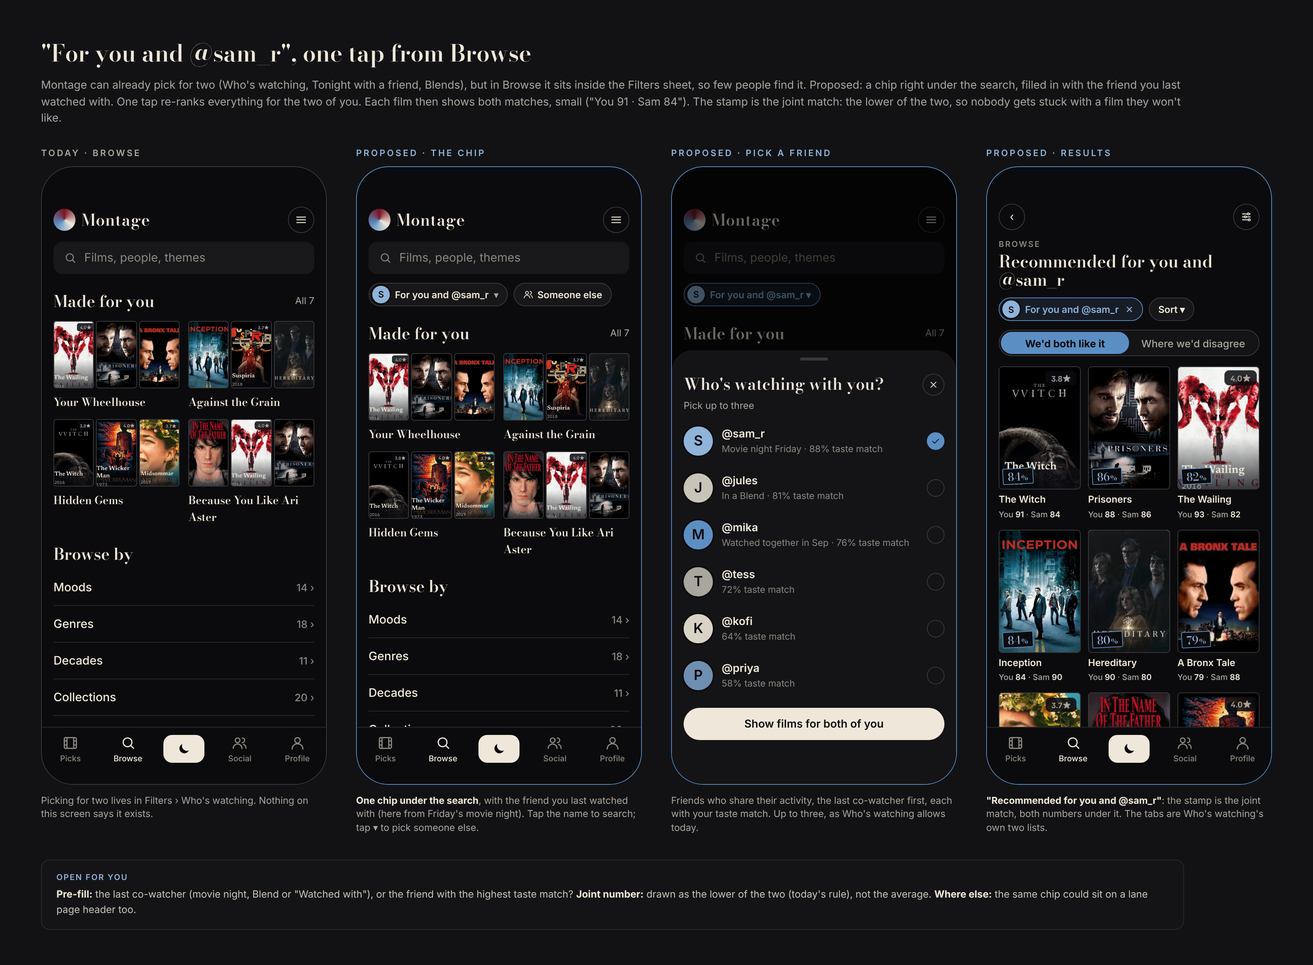
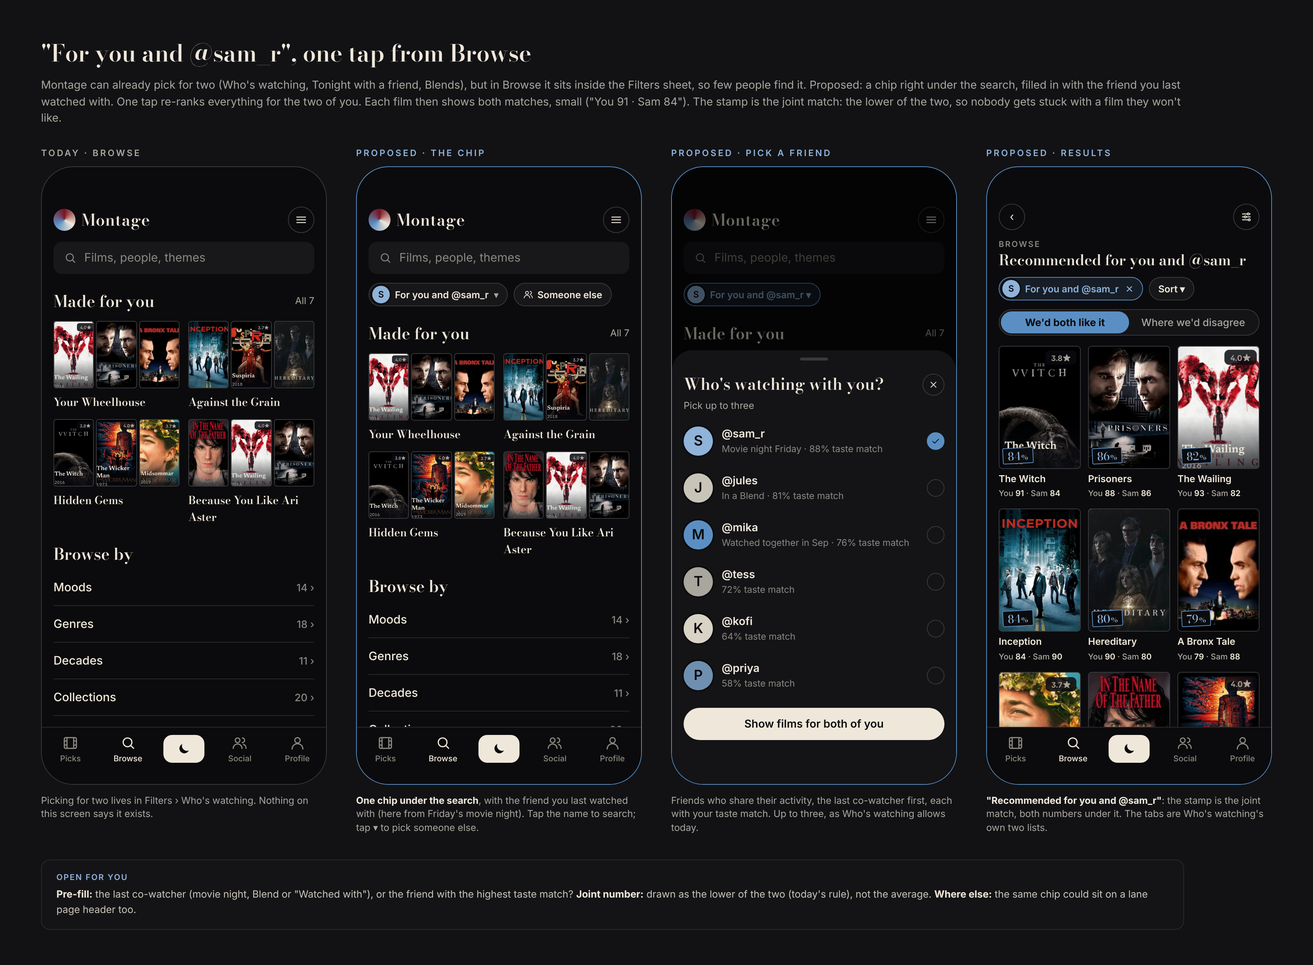
Mocks: Beli-inspired ideas 1–8
Claude-Session: https://claude.ai/code/session_013WRDCFXH8nihP92apJAVW7

Changed region(s): [[0.75, 0.2491, 0.9688, 0.7783]]

diff --git a/mockups/journeys/beli-8-invite-reward.html b/mockups/journeys/beli-8-invite-reward.html
@@ -1,0 +1,85 @@
+<!doctype html><html><head><meta charset="utf-8"><title>Invites as a bonus</title>
+<link href="https://fonts.googleapis.com/css2?family=Bodoni+Moda:opsz,wght@6..96,500;6..96,600&family=Inter:wght@400;500;600;700&family=Newsreader:opsz,wght@6..72,400;6..72,600&display=block" rel="stylesheet">
+<link rel="stylesheet" href="../proportions-common.css"><link rel="stylesheet" href="beli.css">
+<style>
+.sheet{position:absolute;left:0;right:0;top:54px;bottom:0;background:#0B0B0D;border-top:1px solid #2A2A2E;border-radius:18px 18px 0 0;padding:12px 16px}
+.og{margin-top:14px;border-radius:8px;border:1px solid #3A3A3E;overflow:hidden;height:172px;position:relative;background:#0b0b0d;display:flex;gap:12px;padding:16px 14px 14px 22px}
+.og:before{content:"";position:absolute;left:0;top:0;bottom:0;width:5px;background:#7A1220}
+.og .sp{width:88px;height:132px;box-shadow:5px 5px 0 #7A1220;outline:1px solid #EFE8DA}
+.og .k{font:600 9px Inter;letter-spacing:1.6px;color:#8FB3D9;text-transform:uppercase}
+.og .n{font:600 22px/1.05 'Bodoni Moda';margin-top:6px}
+.og .f{font:600 8px Inter;letter-spacing:.8px;white-space:nowrap;text-transform:uppercase;margin-top:auto;display:flex;justify-content:space-between;border-top:1px solid #2A2A2E;padding-top:7px}
+.capsl{font:600 11px Inter;letter-spacing:1.3px;text-transform:uppercase;color:#A9A69E}.capsl.b{color:#8FB3D9}
+.dest{display:flex;justify-content:space-between;margin-top:12px}
+.dest span{width:60px;text-align:center;font-size:11px;color:#A9A69E}
+.dest .c{width:50px;height:50px;border-radius:50%;margin:0 auto 5px;border:1px solid #3A3A3E;background:rgba(255,255,255,.04);display:flex;align-items:center;justify-content:center;color:#EFE8DA;font:700 14px Inter}
+.prog{margin-top:16px;border:1px solid #2A2A2E;border-radius:12px;background:#141417;padding:14px}
+.slots{display:flex;gap:8px;margin-top:12px}
+.slot{flex:1;height:62px;border-radius:8px;display:flex;flex-direction:column;align-items:center;justify-content:center;gap:4px;font-size:11px;color:#8A877F}
+.slot.on{background:rgba(91,143,196,.14);border:1px solid #5B8FC4;color:#8FB3D9}
+.slot.off{border:1.5px dashed #3A3A3E}
+.slot.half{border:1.5px dashed #5B8FC4;color:#8FB3D9}
+.free{display:flex;gap:10px;align-items:flex-start;margin-top:14px;font-size:13px;line-height:1.45;color:#C9C4B8}
+.free .i{color:#8FB3D9;margin-top:1px}
+.cg{display:grid;grid-template-columns:repeat(5,1fr);gap:7px;margin-top:12px}
+.cg .sp,.cg .nw{aspect-ratio:2/3;border-radius:5px}
+.cg .nw{border:1.5px dashed #5B8FC4;display:flex;align-items:center;justify-content:center;color:#8FB3D9}
+.ios{position:absolute;left:8px;right:8px;bottom:8px;background:#1C1C1F;border-radius:22px;padding:14px 14px}
+.lk{display:flex;gap:12px;align-items:center;padding-bottom:14px;border-bottom:1px solid #2E2E32}
+.lk .ib{width:52px;height:52px;border-radius:10px;background:#0B0B0D;display:flex;align-items:center;justify-content:center;flex:none;border:1px solid #3A3A3E}
+.apps{display:flex;justify-content:space-between;padding:16px 4px;border-bottom:1px solid #2E2E32}
+.apps span{width:62px;text-align:center;font-size:11px;color:#C9C4B8}
+.apps .c{width:56px;height:56px;border-radius:14px;margin:0 auto 6px;background:#2E2E32;display:flex;align-items:center;justify-content:center;color:#EFE8DA;font:700 14px Inter}
+.ios .li{display:flex;justify-content:space-between;align-items:center;height:48px;background:#26262A;padding:0 14px;font-size:15px}
+.ios .li:first-of-type{border-radius:12px 12px 0 0}.ios .li+.li{border-top:1px solid #333337}.ios .li.last{border-radius:0 0 12px 12px}
+.msg{margin-top:12px;background:#26262A;border-radius:12px;padding:10px 12px;font-size:14px;line-height:1.4;color:#EFE8DA}
+.phone{height:760px}
+.web{position:absolute;inset:0;padding:50px 16px 0}
+.url{height:34px;border-radius:10px;background:#18181B;display:flex;align-items:center;justify-content:center;font:500 13px Inter;color:#8A877F;gap:6px}
+</style></head><body>
+<h1>Invites earn a bonus. They never unlock the basics</h1>
+<p class="lede">Beli makes people invite friends to get in or to use features, and reviewers resent it. Montage does the opposite. <b>Everything works without inviting anyone, and sign-up is never gated.</b> Inviting is only a thank-you on top: when 3 friends join from your links, your Canon (your favourites shelf) grows from 10 films to 15. The invite sheet shows progress ("1 of 3"), every way you share counts (profile, movie night and match links), and the friend lands on an open, free sign-up. This builds on referral.html (reward A).</p>
+<div class="frames">
+<div><div class="sl">Today · Invite a friend</div><div class="phone" id="a"></div><p class="cap">As built (InviteSheet): a link preview and share targets. Nothing shows that anyone joined, or gives a reason to send a second invite.</p></div>
+<div><div class="sl new">Proposed · a bonus, 1 of 3</div><div class="phone new" id="b"></div><p class="cap"><b>A progress block</b> with three slots: joined, signing up, open. The line under it says plainly that nothing is locked and it never expires.</p></div>
+<div><div class="sl new">Proposed · the share sheet</div><div class="phone new" id="c"></div><p class="cap">The system share sheet with the message filled in. The link carries your invite code, so a join counts whichever app it goes through.</p></div>
+<div><div class="sl new">Proposed · what the friend sees</div><div class="phone new" id="d"></div><p class="cap"><b>An open door, not a gate.</b> Anyone can join with or without the link; the link only credits you and shows your match once they've rated.</p></div>
+<div><div class="sl new">Proposed · the bonus, unlocked</div><div class="phone new" id="e"></div><p class="cap">Three friends joined: five more Canon slots, for good. Someone who never invites keeps the full 10-film Canon and every feature.</p></div>
+</div>
+<div class="open"><h3>Open for you</h3><b>When a friend counts:</b> drawn at 15 rated films (so throwaway sign-ups don't count). <b>Taste weight:</b> the extra 5 Canon films should share the Canon's weight, not add to it, so the bonus doesn't change your picks. <b>iPhone installs:</b> crediting an App Store install needs a "Who invited you?" step in onboarding (optional, skippable).</div>
+<script src="beli.js"></script>
+<script>
+const shHead=`<div class="row" style="align-items:flex-start;margin-top:14px"><div class="fan" style="width:40px;height:40px;flex:none"></div><div style="flex:1"><div class="t18">Invite a friend to Montage</div><div class="m">They get their archetype and your match</div></div><span class="ic2" style="width:30px;height:30px"><i data-g="x" data-s="14"></i></span></div>`;
+const og=`<div class="og">${sp('wickerman')}<div style="display:flex;flex-direction:column;flex:1"><div class="k">@you's archetype</div><div class="n">Midnight Cultist</div><div class="sm" style="margin-top:6px">Folk horror, slow dread, the occult</div><div class="f"><span style="color:#8FB3D9">montagefilm.app</span><span>Your match →</span></div></div></div>`;
+const dest=`<div class="dest"><span><div class="c"><i data-g="msg" data-s="18"></i></div>Messages</span><span><div class="c">IG</div>Instagram</span><span><div class="c">WA</div>WhatsApp</span><span><div class="c"><i data-g="link" data-s="18"></i></div>Copy link</span><span><div class="c"><i data-g="more" data-s="18"></i></div>More</span></div>`;
+const under=`<div style="padding:0">${topbar}</div>`;
+document.getElementById('a').innerHTML=under+`<div class="sheet">${shHead}${og}<div class="capsl" style="margin-top:22px">Send an invite</div>${dest}
+<div class="kick" style="margin-top:26px">Joined from your links</div><div class="m" style="margin-top:8px">Not shown anywhere today. An "@kofi joined from your invite" row appears in Activity, and that's all.</div></div>`;
+document.getElementById('b').innerHTML=under+`<div class="sheet">${shHead}
+<div class="prog"><div class="row" style="justify-content:space-between"><span class="capsl b">Bonus · 1 of 3 joined</span><span class="sm">No deadline</span></div>
+<div style="font-size:14px;margin-top:6px;line-height:1.4">Three friends join, and your <b>Canon grows from 10 films to 15</b>.</div>
+<div class="slots"><div class="slot on">${av('@kofi',24)}@kofi</div><div class="slot half"><i data-g="clock" data-s="15"></i>@tess is rating</div><div class="slot off"><i data-g="plus" data-s="15"></i>Open</div></div>
+<div class="free"><i data-g="check" data-s="16"></i><span>Just a thank-you. Nothing in Montage is locked, and your friends can join with or without your link.</span></div></div>
+<div class="capsl" style="margin-top:18px">Send an invite</div>${dest}
+<div class="sm" style="margin-top:14px;line-height:1.45">Counts: your profile link, a movie night invite or a "What's our match?" link. A friend counts once they've rated 15 films.</div>
+<div class="sm" style="margin-top:10px;text-align:center">Your link preview is unchanged. <span style="color:#8FB3D9;font-weight:600">See it</span></div></div>`;
+document.getElementById('c').innerHTML=under+`<div class="sheet">${shHead}<div class="prog"><div class="row" style="justify-content:space-between"><span class="capsl b">Bonus · 1 of 3 joined</span><span class="sm">No deadline</span></div></div></div><div class="dim"></div>
+<div class="ios" style="z-index:6"><div class="lk"><div class="ib"><div class="fan" style="width:30px;height:30px"></div></div><div style="flex:1;min-width:0"><div style="font:600 15px Inter">What's our match on Montage?</div><div class="sm" style="margin-top:2px">montagefilm.app/u/you?i=k7f2</div></div><span class="ic2" style="width:30px;height:30px;background:#2E2E32;border:0"><i data-g="x" data-s="14"></i></span></div>
+<div class="msg">Rate a few films and see how our taste matches. It's free: montagefilm.app/u/you?i=k7f2</div>
+<div class="apps"><span><div class="c"><i data-g="msg" data-s="22"></i></div>Messages</span><span><div class="c">WA</div>WhatsApp</span><span><div class="c">IG</div>Instagram</span><span><div class="c"><i data-g="users" data-s="22"></i></div>Contacts</span></div>
+<div style="margin-top:14px"><div class="li">Copy link<i data-g="copy" data-s="18"></i></div><div class="li">Show QR code<i data-g="image" data-s="18"></i></div><div class="li last">Save to Files<i data-g="dl" data-s="18"></i></div></div></div>`;
+document.getElementById('d').innerHTML=`<div class="url"><i data-g="lock" data-s="12"></i>montagefilm.app</div>
+<div class="row" style="margin-top:22px;gap:10px">${av('@you',44)}<div><div class="m">@you sent you this</div><div class="t22">What's our match?</div></div></div>
+<div class="t28" style="margin-top:22px;font-size:32px">Rate a few films. See how your taste lines up.</div>
+<div style="display:flex;gap:8px;margin-top:20px">${['wailing','hereditary','witch','midsommar'].map(i=>sp(i,{style:'flex:1;aspect-ratio:2/3'})).join('')}</div>
+<div class="m" style="margin-top:10px;font-size:14px">@you's Canon starts with these. Yours could match.</div>
+<div class="pill" style="width:100%;margin-top:22px">Get started, free</div>
+<div class="pill sec" style="width:100%;margin-top:10px">Import from Letterboxd</div>
+<div class="free" style="margin-top:18px"><i data-g="check" data-s="16"></i><span><b style="color:#EFE8DA">No invite needed.</b> Montage is free and open to everyone; this link only lets @you know you joined.</span></div>`;
+document.getElementById('e').innerHTML=topbar+`<div class="row" style="margin-top:14px;gap:8px"><i data-g="canon" data-s="20" style="color:#8FB3D9"></i><span class="t22">Your Canon</span><span class="sm" style="margin-left:auto">10 of 15</span></div>
+<div style="margin-top:12px;border:1px solid #5B8FC4;background:rgba(91,143,196,.08);border-radius:10px;padding:12px"><div class="capsl b">Bonus unlocked, for good</div><div style="font-size:14px;margin-top:5px;line-height:1.4">@kofi, @tess and @priya joined from your links. Your Canon now holds 15 films.</div><div class="row" style="margin-top:8px">${faces(['@kofi','@tess','@priya'],22)}</div></div>
+<div class="cg">${['wailing','hereditary','witch','midsommar','wickerman','suspiria','prisoners','inception','itnotf','bronx'].map(i=>sp(i)).join('')}${'<div class="nw"><i data-g="plus" data-s="16"></i></div>'.repeat(5)}</div>
+<div class="pill" style="width:100%;margin-top:16px">Add to your Canon</div>
+<div class="sm" style="margin-top:12px;line-height:1.45;text-align:center">Your Canon counts the same in your taste at 15 as at 10.</div>
+`+tabs('Profile');
+</script><script src="growth-icons.js"></script></body></html>

diff --git a/mockups/journeys/beli-7-watched-with.html b/mockups/journeys/beli-7-watched-with.html
@@ -1,0 +1,74 @@
+<!doctype html><html><head><meta charset="utf-8"><title>Watched with</title>
+<link href="https://fonts.googleapis.com/css2?family=Bodoni+Moda:opsz,wght@6..96,500;6..96,600&family=Inter:wght@400;500;600;700&family=Newsreader:opsz,wght@6..72,400;6..72,600&display=block" rel="stylesheet">
+<link rel="stylesheet" href="../proportions-common.css"><link rel="stylesheet" href="beli.css">
+<style>
+.phone.dw{padding:0}
+.tkf{display:flex;gap:14px;align-items:center}
+.tkf .t{font:500 20px 'Bodoni Moda'}.tkf .m{margin-top:4px}.tkf .m b{color:#EFE8DA;font-weight:500;letter-spacing:1px}
+.vd{font:500 13px Inter;margin-top:6px}.vd .g{color:#A9A69E}.vd .ok{color:#8FB3D9}
+.dchips{display:flex;flex-wrap:wrap;gap:8px;margin-top:12px}
+.chip.pp{padding-left:4px;gap:7px}
+.chip.sel{border-color:#5B8FC4;background:rgba(91,143,196,.14);color:#EFE8DA}
+.acts{display:flex;justify-content:space-between;align-items:center;margin-top:20px}
+.act{display:flex;gap:12px;padding:14px 0;border-bottom:1px solid #2A2A2E;align-items:flex-start}
+.act .tx{flex:1;font-size:14px;line-height:1.4}
+.act .tx .sm{margin-top:2px}
+.lp{display:flex;gap:12px;align-items:center;padding:12px 0;border-bottom:1px solid #2A2A2E}
+.lp .sp{width:44px;height:66px}
+.lp .tx{flex:1;min-width:0;font-size:14px;line-height:1.35}
+.lp .tx em{font:500 15px 'Bodoni Moda';font-style:normal}
+.lp .tx .sm{margin-top:3px}
+.lp .st{font-size:12px;color:#EFE8DA;letter-spacing:.5px}
+.wl{display:flex;align-items:center;gap:10px;padding:12px 0;border-bottom:1px solid #2A2A2E}
+.wl .d{width:58px;font:600 13px Inter;flex:none}.wl .d span{display:block;font:400 11px Inter;color:#8A877F}
+.wl .tx{flex:1;font-size:13.5px;color:#A9A69E}.wl .tx b{color:#EFE8DA;font-weight:500;letter-spacing:.5px}
+.take p{font:400 15px/1.35 Newsreader;color:#D9D3C6;margin-top:3px}
+.together{display:flex;align-items:center;gap:10px;border:1px solid #2A2A2E;border-radius:12px;background:#121215;padding:12px;margin-top:14px;font-size:13.5px}
+</style></head><body>
+<h1>"Watched with": who was there</h1>
+<p class="lede">A film night is rarely solo, but a Montage log is. Proposed: one optional row on the "When did you watch it?" step, <b>Watched with</b>, where you tag friends who were there. Each tagged friend gets a one-tap "Add it to my films?" (nothing lands on their profile without them). Lately then shows the night as one post ("@jules and @sam_r watched it together"), and your log line on the film page keeps who was there. It also tells Montage who you watch with, which fills the "For you and @sam_r" chip.</p>
+<div class="frames">
+<div><div class="sl">Today · When step</div><div class="phone dw" id="a"></div><p class="cap">Stars, then when. Who you were with isn't asked anywhere.</p></div>
+<div><div class="sl new">Proposed · Watched with</div><div class="phone new dw" id="b"></div><p class="cap"><b>One row under When.</b> Friends you watch with most come first; Friday's movie night is offered as one tap. Optional: Done works with nobody tagged.</p></div>
+<div><div class="sl new">Proposed · the friend's side</div><div class="phone new" id="c"></div><p class="cap">@jules gets one Activity row. <b>Add it</b> logs the film with the same date and asks for their own stars; <b>Not me</b> removes the tag quietly.</p></div>
+<div><div class="sl new">Proposed · Lately</div><div class="phone new" id="d"></div><p class="cap">For a mutual friend, one post for the night instead of two separate watches, with both people's stars.</p></div>
+<div><div class="sl new">Proposed · film page, your log</div><div class="phone new" id="e"></div><p class="cap">Your watches keep who was there. A line counts nights together and opens your taste match with that friend.</p></div>
+</div>
+<div class="open"><h3>Open for you</h3><b>Who can be tagged:</b> mutual friends only (drawn), or anyone you follow? <b>Visibility:</b> the tag shows only to people who can already see both friends' activity; someone with sharing off can't be tagged. <b>Auto-add:</b> drawn as a confirm on the friend's side; auto-adding would be faster but logs films for people without asking.</div>
+<script src="beli.js"></script>
+<script>
+const dh=w=>{const k=w/76;return `<div class="dh" style="width:${w}px;height:${w*1.5}px;background:url(../img/rate-drawer-shot.png) ${-24.5*k}px ${-54.9*k}px/${124.8*k}px auto no-repeat,#222;border-radius:5px;outline:1px solid #3A3A3E;outline-offset:-1px"></div>`};
+const head=`<div class="tkf">${dh(56)}<div><div class="t">The Deer Hunter</div><div class="m"><b>★★★★½</b> · Your rating</div><div class="vd"><span class="g">We guessed 91% · </span><span class="ok">Called it ✓</span></div></div></div>`;
+const when=(sel)=>`<div class="q" style="margin-top:22px;font-size:18px">When did you watch it?</div><div class="dchips"><span class="chip ${sel?'on':''}">Today</span><span class="chip">Yesterday</span><span class="chip">Pick a date</span><span class="chip" style="color:#A9A69E">A while ago</span></div>`;
+document.getElementById('a').innerHTML=`<div class="under"></div><div class="dr" style="top:470px"><div class="grab"></div>${head}${when()}</div>`;
+document.getElementById('b').innerHTML=`<div class="under"></div><div class="dr" style="top:330px"><div class="grab"></div>${head}${when(1)}
+<div class="q" style="margin-top:22px;font-size:18px">Watched with <span class="sm" style="font:400 13px Inter">optional</span></div>
+<div class="dchips"><span class="chip pp sel">${av('@jules',24)}@jules <span class="x">✕</span></span><span class="chip pp sel">${av('@sam_r',24)}@sam_r <span class="x">✕</span></span><span class="chip pp">${av('@mika',24)}@mika</span><span class="chip"><i data-g="plus" data-s="14"></i>Someone</span></div>
+<div class="row" style="gap:8px;margin-top:12px;font-size:13px;color:#A9A69E"><i data-g="ticket" data-s="15" style="color:#8FB3D9"></i>From Friday's movie night: @jules, @sam_r</div>
+<div class="acts"><span style="font:500 15px Inter;color:#A9A69E">Skip</span><span class="pill" style="padding:0 28px">Done</span></div></div>`;
+document.getElementById('c').innerHTML=`<div class="row" style="justify-content:space-between;margin-top:6px"><span class="t28">Activity</span><span class="ic2"><i data-g="x" data-s="16"></i></span></div>
+<div class="act" style="margin-top:8px">${av('@you',40)}<div class="tx"><b>@you</b> says you watched <b style="font-family:'Bodoni Moda'">The Deer Hunter</b> together, with @sam_r<div class="sm">Today · they gave it 4½★</div>
+<div class="row" style="gap:8px;margin-top:10px"><span class="pill" style="height:36px;font-size:14px;padding:0 16px">Add it to my films</span><span class="pill sec" style="height:36px;font-size:14px;padding:0 16px">Not me</span></div></div>${dh(40)}</div>
+<div class="act">${av('@sam_r',40)}<div class="tx"><b>@sam_r</b> added <b style="font-family:'Bodoni Moda'">Midsommar</b> from your night<div class="sm">Fri</div></div>${sp('midsommar',{style:'width:40px;height:60px'})}</div>
+<div class="act">${av('@tess',40)}<div class="tx"><b>@tess</b> followed you<div class="sm">Thu</div></div><span class="pill sec" style="height:32px;font-size:13px;padding:0 12px">Follow back</span></div>
+<div class="act">${av('@mika',40)}<div class="tx"><b>@mika</b> rated <b style="font-family:'Bodoni Moda'">The Witch</b> ★★★★<div class="sm">Wed</div></div>${sp('witch',{style:'width:40px;height:60px'})}</div>
+<div class="act">${av('@priya',40)}<div class="tx"><b>@priya</b> liked your take on <b style="font-family:'Bodoni Moda'">Hereditary</b><div class="sm">Tue</div></div>${sp('hereditary',{style:'width:40px;height:60px'})}</div>
+<div class="act" style="border:0">${av('@kofi',40)}<div class="tx"><b>@kofi</b> joined Montage from your invite<div class="sm">Mon</div></div></div>`+tabs('Social');
+document.getElementById('d').innerHTML=topbar+`<div class="row" style="justify-content:space-between;margin-top:12px;align-items:baseline"><span class="t28">Lately</span><span class="m">from your people</span></div>
+<div class="lp"><div style="position:relative">${dh(44)}</div><div class="tx">${faces(['@jules','@sam_r'],20)} <b>@jules</b> and <b>@sam_r</b> watched <em>The Deer Hunter</em> together<div class="sm">2h · @jules 4½★ · @sam_r 4★ · 91% for you</div></div></div>
+<div class="lp">${sp('hereditary')}<div class="tx"><b>@tess</b> rated <em>Hereditary</em> <span class="st">★★★★</span><div class="sm">5h · 90% for you</div></div></div>
+<div class="lp">${sp('wailing')}<div class="tx"><b>@mika</b> and <b>@kofi</b> watched <em>The Wailing</em> together<div class="sm">Yesterday · @mika 5★ · @kofi 4½★</div></div></div>
+<div class="lp">${sp('inception')}<div class="tx"><b>@priya</b> saved <em>Inception</em><div class="sm">Yesterday · 88% for you</div></div></div>
+<div class="lp">${sp('witch')}<div class="tx"><b>@sam_r</b> rated <em>The Witch</em> <span class="st">★★★★½</span><div class="sm">Mon · 94% for you</div></div></div>
+<div class="lp" style="border:0">${sp('bronx')}<div class="tx"><b>@jules</b> rated <em>A Bronx Tale</em> <span class="st">★★★½</span><div class="sm">Sun</div></div></div>`+tabs('Social');
+document.getElementById('e').innerHTML=`<div class="row" style="justify-content:space-between"><span class="ic2">‹</span><span class="ic2"><i data-g="share" data-s="16"></i></span></div>
+<div style="display:flex;gap:14px;margin-top:14px;align-items:flex-end">${dh(92).replace('outline:1px solid #3A3A3E','outline:1px solid #EFE8DA;box-shadow:6px 6px 0 #7A1220')}<div><div class="t28">The Deer Hunter</div><div class="m" style="margin-top:6px">1978 · 3h 3m · Michael Cimino</div></div></div>
+<div class="match" style="margin-top:18px"><span class="n">91<small>%</small></span><span class="t"><b>Your match</b><span>Called it ✓ · you gave it 4½★</span></span><span class="go">Why ›</span></div>
+<div class="kick" style="margin-top:20px">Your watches</div>
+<div class="wl"><div class="d">Nov 4<span>2026</span></div><div class="tx"><b>★★★★½</b> · with ${faces(['@jules','@sam_r'],18)} @jules, @sam_r</div></div>
+<div class="wl"><div class="d">Mar 12<span>2019</span></div><div class="tx"><b>★★★★</b> · on your own</div></div>
+<div class="together">${faces(['@jules'],28)}<div style="flex:1">You and <b>@jules</b>: 3 films together since September<div class="sm">Your taste match 81%</div></div><span class="mu">›</span></div>
+<div class="kick" style="margin-top:20px">From your people</div>
+<div class="row take" style="align-items:flex-start;gap:10px;margin-top:10px">${av('@jules',32)}<div><b style="font-size:14px">@jules</b> <span class="m">4½★ · 2h</span><p>"Three hours and I'd sit through it again tomorrow."</p></div></div>
+<div class="fade"></div>`+tabs('Picks');
+</script><script src="growth-icons.js"></script></body></html>

diff --git a/mockups/journeys/beli-3-two-person-chip.html b/mockups/journeys/beli-3-two-person-chip.html
@@ -42,7 +42,7 @@ document.getElementById('c').innerHTML=hub('<div class="chips" style="margin-top
 <div class="pill" style="width:100%;margin-top:12px">Show films for both of you</div></div>`;
 const R=[['witch',91,84,'The Witch'],['prisoners',88,86,'Prisoners'],['wailing',93,82,'The Wailing'],['inception',84,90,'Inception'],['hereditary',90,80,'Hereditary'],['bronx',79,88,'A Bronx Tale'],['midsommar',86,78,'Midsommar'],['itnotf',77,85,'In the Name of the Father'],['wickerman',89,76,'The Wicker Man']];
 document.getElementById('d').innerHTML=`<div class="row" style="justify-content:space-between"><span class="ic2">‹</span><span class="ic2"><i data-g="sliders" data-s="16"></i></span></div>
-<div class="kick" style="margin-top:12px">Browse</div><div class="t22" style="margin-top:4px;font-size:23px">Recommended for you and @sam_r</div>
+<div class="kick" style="margin-top:12px">Browse</div><div class="t22" style="margin-top:4px;font-size:20px;white-space:nowrap">Recommended for you and @sam_r</div>
 <div class="chips" style="margin-top:12px"><span class="chip pp on">${av('@sam_r',24)}For you and @sam_r <span class="x">✕</span></span><span class="chip">Sort ▾</span></div>
 <div class="seg"><span class="on">We'd both like it</span><span>Where we'd disagree</span></div>
 <div class="grid3" style="margin-top:14px">${R.map(([i,y,s,t])=>`<div>${sp(i,{st:Math.min(y,s)})}<div class="ttl3">${t}</div><div class="jl">You <b>${y}</b> · Sam <b>${s}</b></div></div>`).join('')}</div><div class="fade"></div>`+tabs('Browse');

diff --git a/mockups/journeys/beli.css b/mockups/journeys/beli.css
@@ -55,7 +55,7 @@ svg.i{width:18px;height:18px;fill:none;stroke:currentColor;stroke-width:1.75;str
 .dr{position:absolute;left:0;right:0;bottom:0;background:#141417;border-radius:28px 28px 0 0;padding:10px 16px 34px;z-index:6}
 .grab{width:38px;height:4px;border-radius:2px;background:#3A3A3E;margin:0 auto 18px}
 .dim{position:absolute;inset:0;background:rgba(0,0,0,.55);z-index:5}
-.under{position:absolute;left:0;right:0;top:0;height:560px;background:url(../img/rate-drawer-shot.png) 0 0/390px auto no-repeat}
+.under{position:absolute;left:0;right:0;top:0;height:526px;background:url(../img/rate-drawer-shot.png) 0 0/390px auto no-repeat}
 .dh{width:76px;height:114px;border-radius:4px;background:url(../img/rate-drawer-shot.png) -24.5px -54.9px/124.8px auto no-repeat,#222;flex:none}
 .t18{font:600 18px/1.15 'Bodoni Moda'}
 .q{font:500 20px 'Bodoni Moda';color:#EFE8DA}
